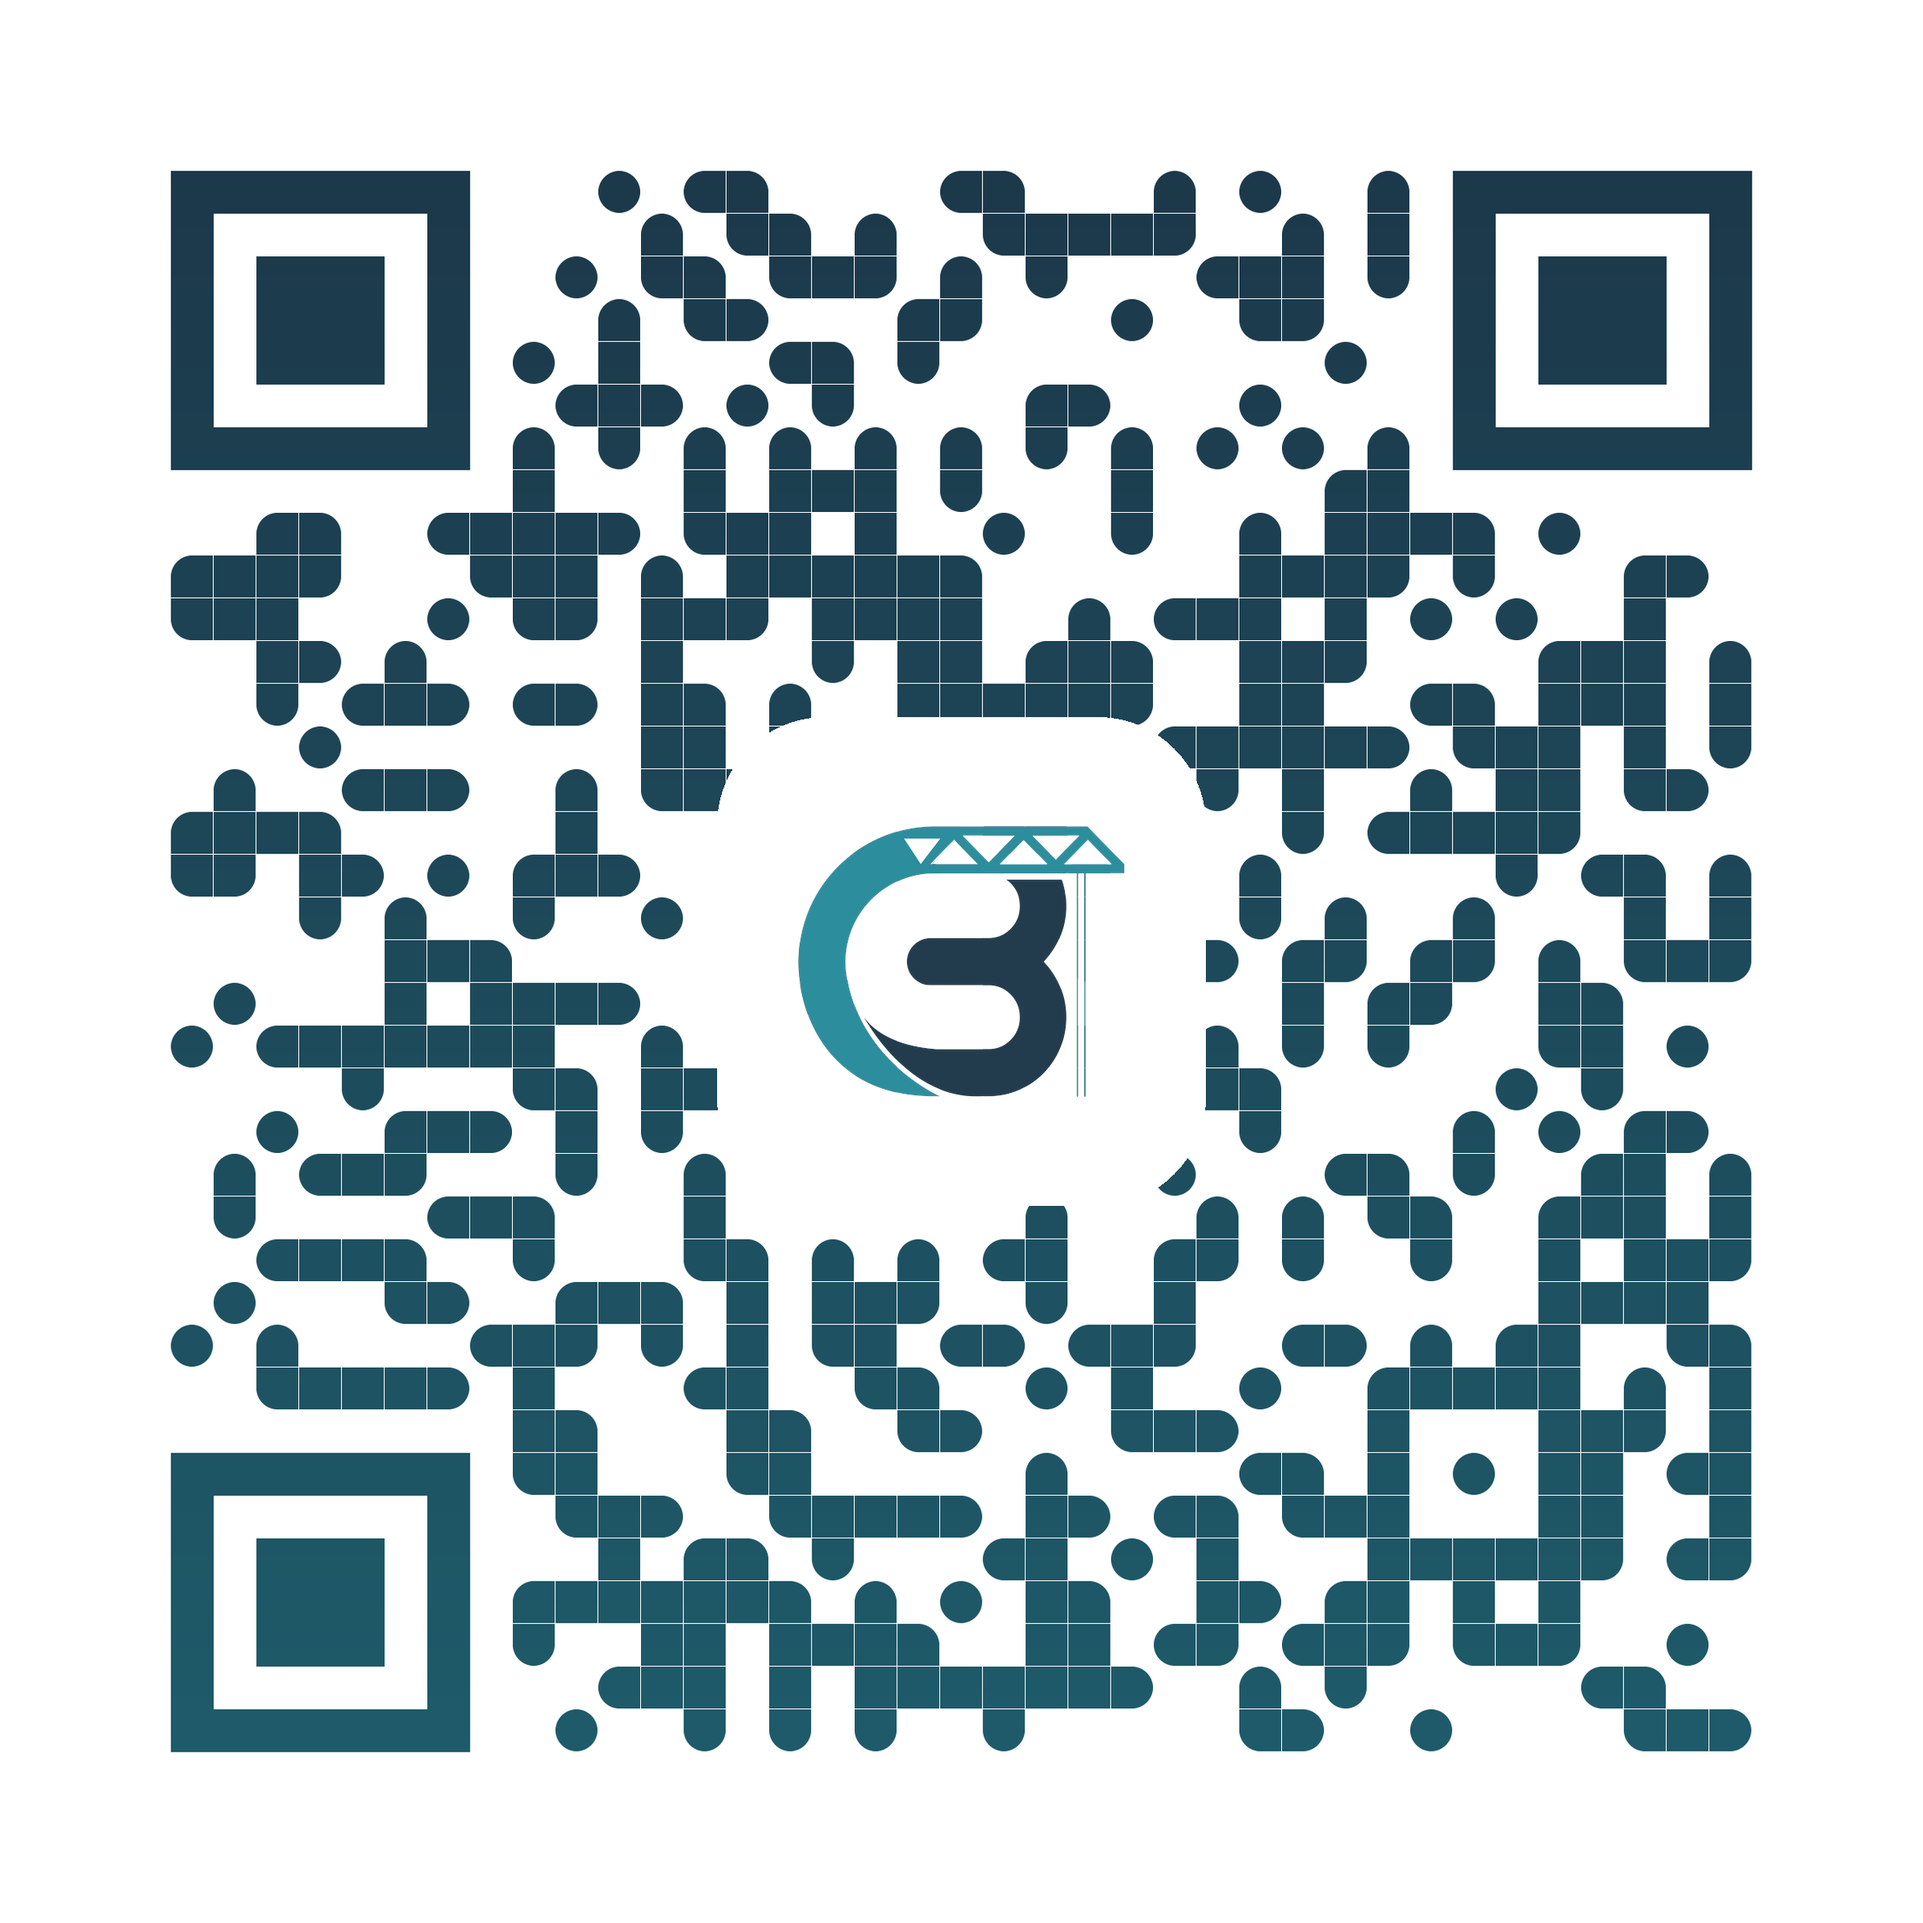
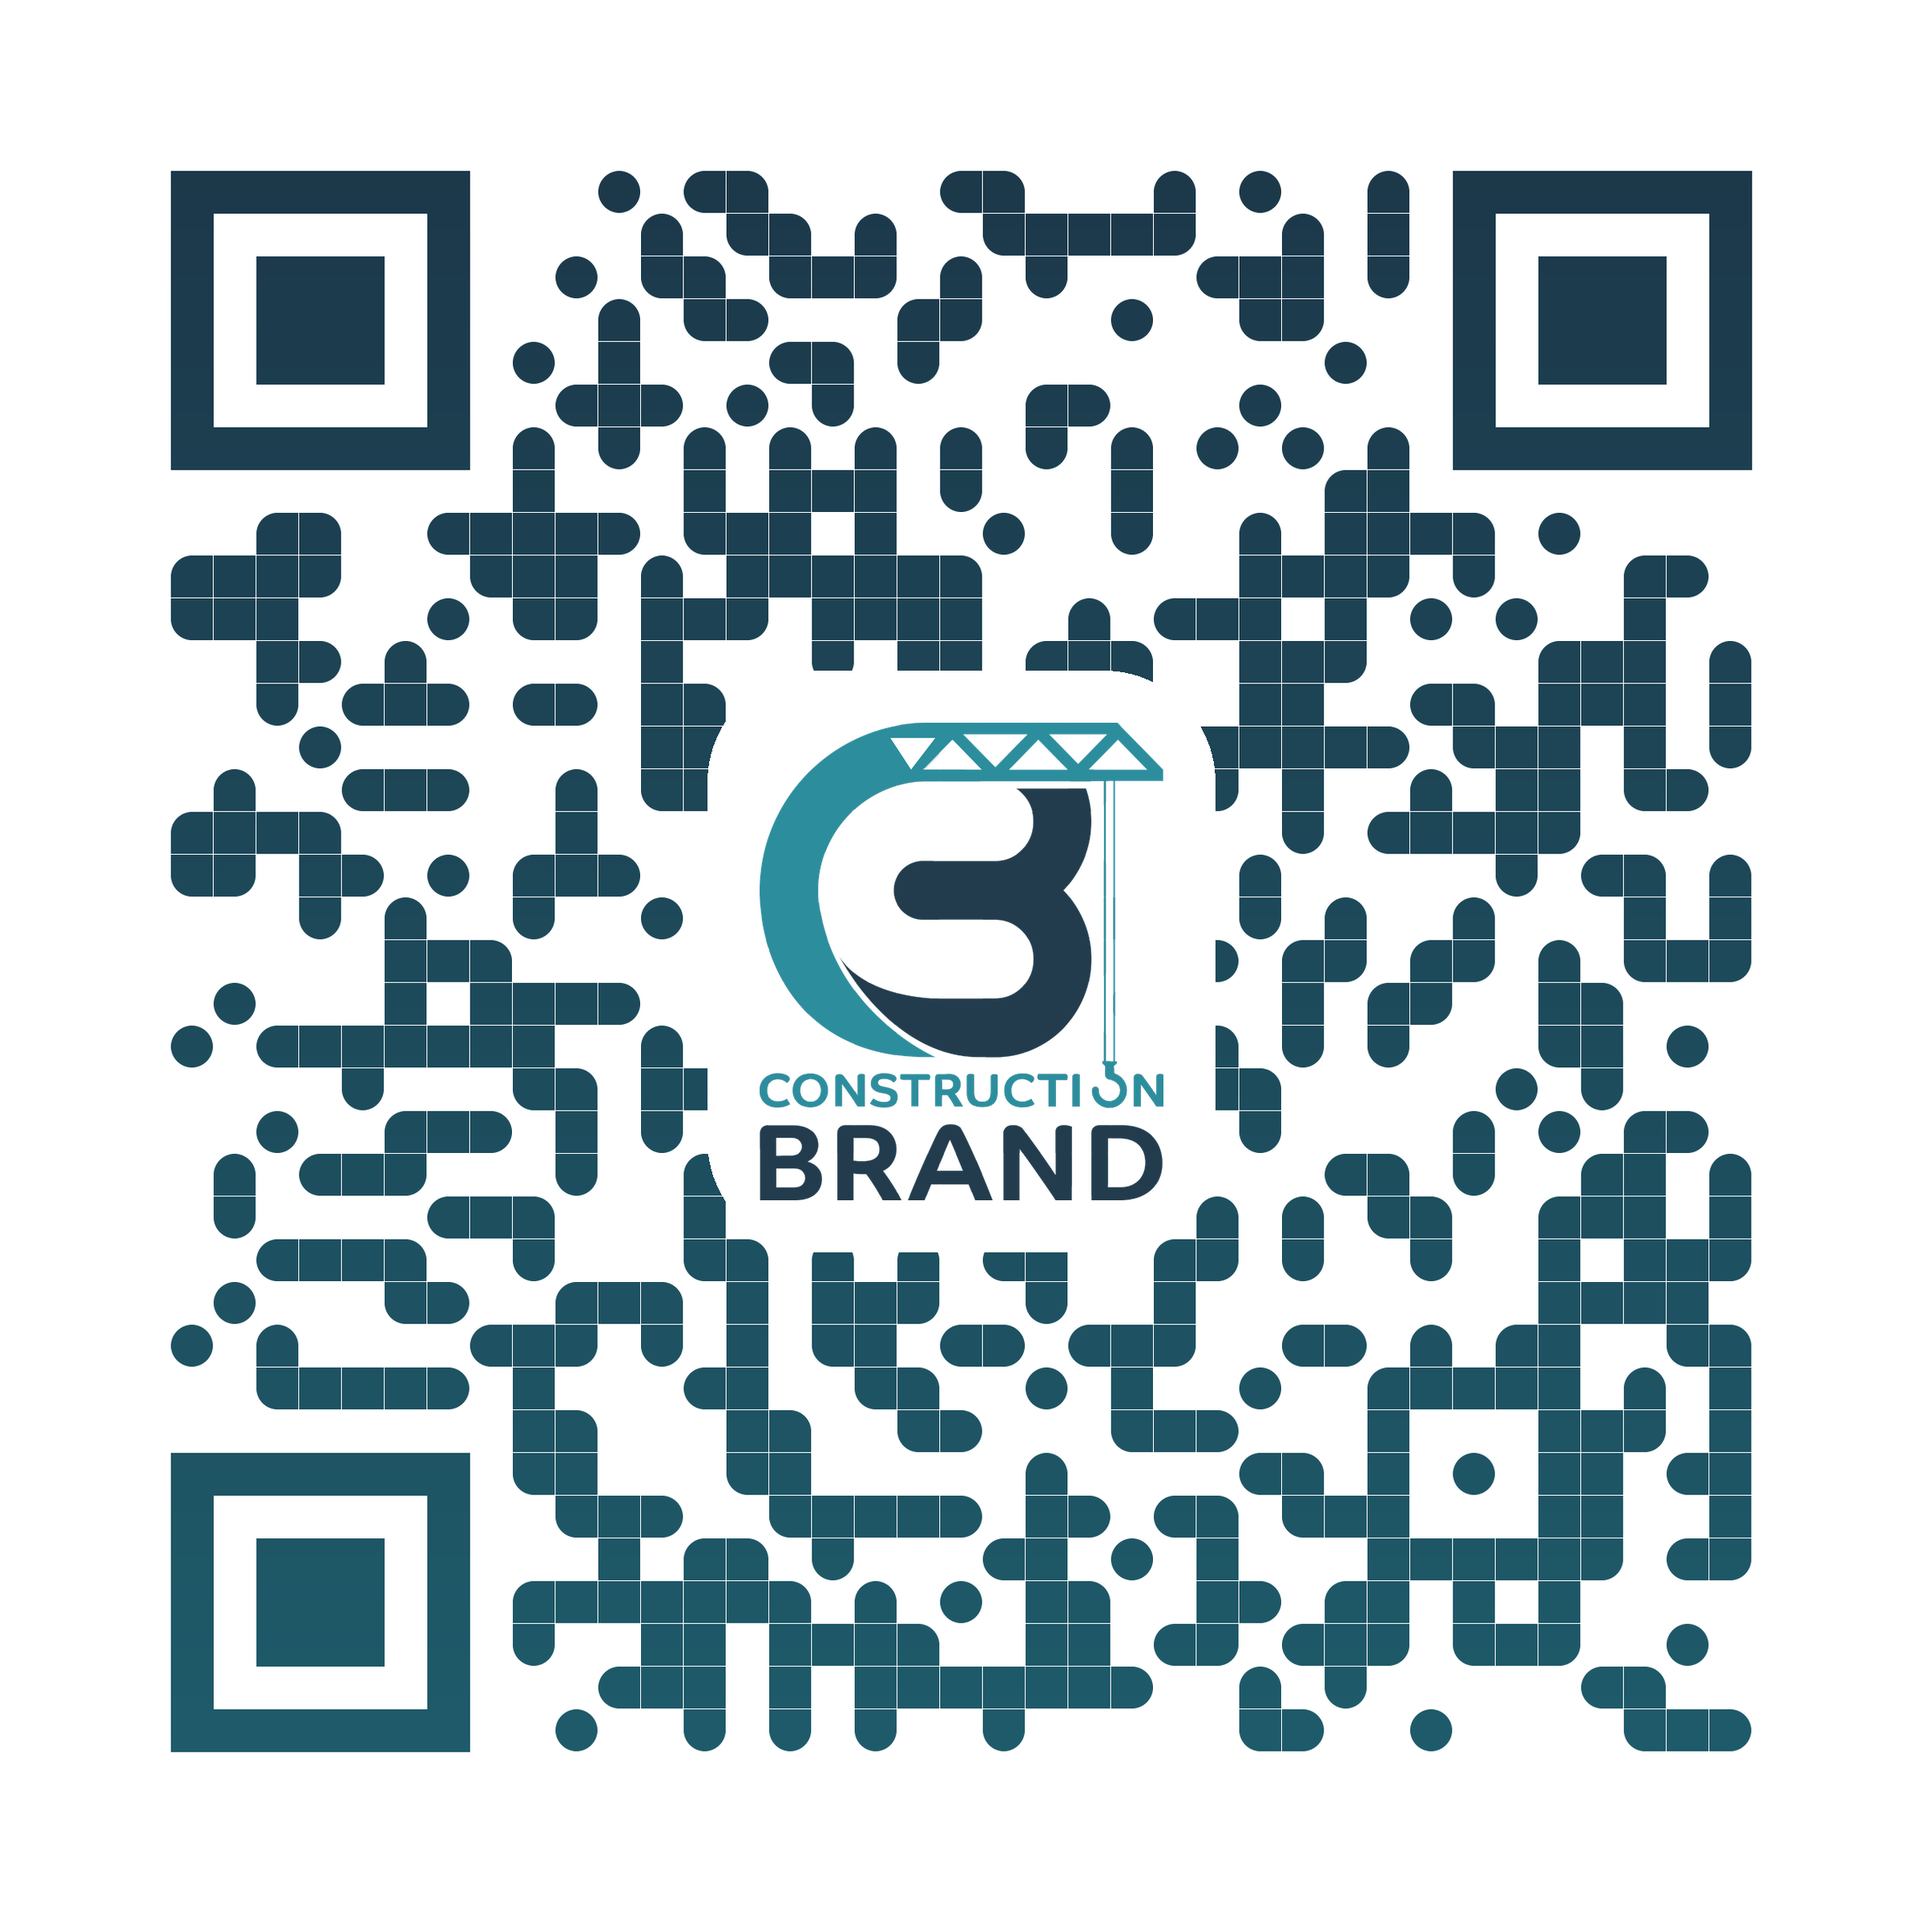
QR: full lockup in the centre, wordmark on the frame, bigger ringed badges
- centre plate now carries the full lockup - the mark with CONSTRUCTION
  BRAND right under it - on a rounded white plate held near 8% of the code
- frame band 0.22 -> 0.26 of the code, corner badges 0.78 -> 0.84 of the
  band with the mark at 0.80 of the disc and a light-teal ring
- the wordmark, cropped from the official artwork and recoloured white /
  light teal, runs along the bottom band (prepare_logo.py now derives
  assets/img/wordmark.png and wordmark-light.png)
- base render stays 2400 px: 3000 introduced a 25%-scale decode miss
- scan check is now multi-scale: full size must decode and at most one of
  15/20/25/30/40/50% may miss. Plain and framed pass at every scale.

Changed region(s): [[0.3438, 0.3438, 0.6562, 0.6562], [0.625, 0.5312, 0.6562, 0.5625]]

diff --git a/tools/generate_qr.py b/tools/generate_qr.py
@@ -49,6 +49,7 @@ ROOT = os.path.dirname(os.path.dirname(os.path.abspath(__file__)))
 OUT = os.path.join(ROOT, "qr")
 LOGO_PNG = os.path.join(ROOT, "assets", "img", "logo.png")          # mark only
 LOGO_FULL = os.path.join(ROOT, "assets", "img", "logo-full.png")    # with wordmark
+WORDMARK_LIGHT = os.path.join(ROOT, "assets", "img", "wordmark-light.png")  # for navy
 
 NAVY = (28, 53, 71)
 NAVY_DEEP = (14, 32, 42)
@@ -148,13 +149,18 @@ def load_mark(size):
 
 def badge(diameter):
     """The mark on a white disc - exactly how the brand uses it on Instagram,
-    and the only way a navy-and-teal logo stays legible on a navy frame."""
+    and the only way a navy-and-teal logo stays legible on a navy frame. A
+    thin light-teal ring lifts the disc off the navy so it reads as a badge
+    even at table-tent size."""
     d4 = diameter * SS
     disc = Image.new("RGBA", (d4, d4), (0, 0, 0, 0))
-    ImageDraw.Draw(disc).ellipse([0, 0, d4 - 1, d4 - 1], fill=WHITE)
+    dd = ImageDraw.Draw(disc)
+    ring = max(2, int(d4 * 0.035))
+    dd.ellipse([0, 0, d4 - 1, d4 - 1], fill=(124, 200, 214, 255))          # ring
+    dd.ellipse([ring, ring, d4 - 1 - ring, d4 - 1 - ring], fill=WHITE + (255,))
     disc = disc.resize((diameter, diameter), Image.LANCZOS)
 
-    inner = int(diameter * 0.74)
+    inner = int(diameter * 0.80)
     mark = load_mark(inner)
     disc.paste(mark, ((diameter - inner) // 2, (diameter - inner) // 2), mark)
     return disc
@@ -189,12 +195,19 @@ def plain_png(qr, px):
 
 
 def with_centre_mark(qr_img):
-    """Error correction H tolerates ~30% loss, so a centred mark is safe."""
+    """The full lockup - the mark with CONSTRUCTION BRAND right under it - on
+    a rounded white plate in the middle of the code. Error correction H
+    tolerates ~30% loss; the plate is held near 8% of the code's area and
+    every output is decoded back at several scales before it is kept."""
     px = qr_img.width
-    side = int(px * 0.19)
-    mark = load_mark(side)
-
-    pad = int(side * 0.17)
+    if os.path.exists(LOGO_FULL):
+        mark = Image.open(LOGO_FULL).convert("RGBA")
+        mark.thumbnail((int(px * 0.21), int(px * 0.27)), Image.LANCZOS)   # portrait lockup
+        pad = int(mark.width * 0.13)
+    else:
+        side = int(px * 0.19)
+        mark = load_mark(side)
+        pad = int(side * 0.17)
     pw, ph = mark.width + pad * 2, mark.height + pad * 2
     # rounded plate, to sit with the rounded modules rather than fight them
     plate = Image.new("RGBA", (pw, ph), (0, 0, 0, 0))
@@ -228,7 +241,7 @@ def framed(qr_img, style="corners"):
     discs. Every mark sits OUTSIDE the QR and its quiet zone, so none of this
     can affect scanning."""
     q = qr_img.width
-    band = int(q * 0.22)                 # navy frame thickness
+    band = int(q * 0.26)                 # navy frame thickness - room for real badges
     S = q + band * 2
     R = int(S * 0.055)                   # card corner radius
 
@@ -254,7 +267,7 @@ def framed(qr_img, style="corners"):
     card.paste(qr_img.convert("RGBA"), (band, band))
 
     # -- the marks --
-    size = int(band * 0.78)
+    size = int(band * 0.84)
     disc = badge(size)
     off = (band - size) // 2
 
@@ -266,12 +279,18 @@ def framed(qr_img, style="corners"):
     else:
         spots = [(off, off), (S - size - off, off),
                  (off, S - size - off), (S - size - off, S - size - off)]
-        # truss runs between the corner discs, top and bottom
-        gap = int(band * 0.30)
+        gap = int(band * 0.28)
         x0, x1 = off + size + gap, S - off - size - gap
-        th = int(band * 0.17)
-        truss(d, x0, x1, band // 2, th, TEAL, 200)
-        truss(d, x0, x1, S - band // 2, th, TEAL, 200)
+        # truss between the top discs ...
+        truss(d, x0, x1, band // 2, int(band * 0.16), TEAL, 200)
+        # ... and the wordmark between the bottom ones, so the brand is read
+        # in words as well as seen in the mark
+        if os.path.exists(WORDMARK_LIGHT):
+            wm = Image.open(WORDMARK_LIGHT).convert("RGBA")
+            wm.thumbnail((x1 - x0, int(band * 0.66)), Image.LANCZOS)
+            card.paste(wm, ((S - wm.width) // 2, S - band // 2 - wm.height // 2), wm)
+        else:
+            truss(d, x0, x1, S - band // 2, int(band * 0.16), TEAL, 200)
 
     for xy in spots:
         card.paste(disc, xy, disc)
@@ -367,32 +386,34 @@ def verify(paths, url):
         return True
 
     det = cv2.QRCodeDetector()
+    scales = (0.15, 0.20, 0.25, 0.30, 0.40, 0.50)   # print-like sizes
     ok = True
-    print("\nScan check (decoded back from the generated image):")
+    print("\nScan check (decoded back from the generated image, at full size")
+    print("and at %s of it; full size must pass, and at most one small scale may miss):"
+          % ", ".join("%d%%" % int(s * 100) for s in scales))
     for p in paths:
         img = cv2.imread(p)
-        # also try a small print-like size, to catch codes that only work huge
-        results = []
-        for scale in (1.0, 0.25):
-            h, w = img.shape[:2]
-            s = img if scale == 1.0 else cv2.resize(
-                img, (int(w * scale), int(h * scale)), interpolation=cv2.INTER_AREA)
-            try:
-                data, _, _ = det.detectAndDecode(s)
-            except cv2.error:
-                data = ""
-            results.append(data)
+        h, w = img.shape[:2]
 
-        got = next((r for r in results if r), "")
+        def read(scale):
+            s = img if scale == 1.0 else cv2.resize(
+                img, (max(1, int(w * scale)), max(1, int(h * scale))), interpolation=cv2.INTER_AREA)
+            try:
+                return det.detectAndDecode(s)[0]
+            except cv2.error:
+                return ""
+
+        full = read(1.0)
+        small = [read(s) == url for s in scales]
+        pattern = "".join("o" if hit else "-" for hit in small)
         name = os.path.basename(p)
-        if got == url:
-            print("  OK    %-40s both sizes" % name if all(r == url for r in results)
-                  else "  OK    %-40s (small size needed a retry)" % name)
-        elif got:
-            print("  WRONG %-40s decoded: %s" % (name, got))
+        if full == url and small.count(False) <= 1:
+            print("  OK    %-40s full:yes  small:%s" % (name, pattern))
+        elif full and full != url:
+            print("  WRONG %-40s decoded: %s" % (name, full))
             ok = False
         else:
-            print("  FAIL  %-40s could not be decoded" % name)
+            print("  FAIL  %-40s full:%s  small:%s" % (name, "yes" if full == url else "no", pattern))
             ok = False
     return ok
 

diff --git a/tools/prepare_logo.py b/tools/prepare_logo.py
@@ -91,21 +91,52 @@ def pad_square(img, margin=0.06):
     return canvas
 
 
-def split_mark(lockup):
-    """Cut the mark off the top of the lockup. Scan downward for the first row
-    where almost nothing is drawn - that is the hoist cable alone, just below
-    the body of the C and B."""
+def find_cut(lockup):
+    """Row where the mark ends. Scan downward for the first row where almost
+    nothing is drawn - that is the hoist cable alone, just below the body of
+    the C and B. None if the artwork has no such row."""
     a = np.asarray(lockup)[..., 3]
     h, w = a.shape
     occ = (a > 8).sum(axis=1)                 # opaque pixels per row
     start, end = int(h * 0.40), int(h * 0.80)
     thin = occ[start:end] < w * 0.02
     if not thin.any():
+        return None
+    return start + int(np.argmax(thin))
+
+
+def trimmed(img):
+    x0, y0, x1, y1 = bbox_of(img)
+    return img.crop((x0, y0, x1, y1))
+
+
+def split_mark(lockup):
+    cut = find_cut(lockup)
+    if cut is None:
         return lockup                          # unknown artwork: use as is
-    cut = start + int(np.argmax(thin))         # first cable-only row
-    mark = lockup.crop((0, 0, w, cut))
-    x0, y0, x1, y1 = bbox_of(mark)
-    return mark.crop((x0, y0, x1, y1))
+    return trimmed(lockup.crop((0, 0, lockup.width, cut)))
+
+
+def split_wordmark(lockup):
+    """Everything below the mark: CONSTRUCTION (with the hook as its O) and
+    BRAND. None if the artwork could not be split."""
+    cut = find_cut(lockup)
+    if cut is None:
+        return None
+    return trimmed(lockup.crop((0, cut, lockup.width, lockup.height)))
+
+
+def recolor_light(img):
+    """Navy -> white and teal -> light teal, so the wordmark reads on the navy
+    QR frame. Each pixel goes to whichever brand colour it is nearer to; the
+    alpha channel (and so every anti-aliased edge) is kept as is."""
+    arr = np.asarray(img).astype(np.int16)
+    rgb, alpha = arr[..., :3], arr[..., 3].astype(np.uint8)
+    d_navy = np.abs(rgb - np.array(NAVY)).sum(axis=2)
+    d_teal = np.abs(rgb - np.array(TEAL)).sum(axis=2)
+    light_teal = np.array((124, 200, 214))
+    out = np.where((d_navy <= d_teal)[..., None], np.array(WHITE), light_teal).astype(np.uint8)
+    return Image.fromarray(np.dstack([out, alpha]), "RGBA")
 
 
 # --------------------------------------------------------------------------- #
@@ -179,21 +210,30 @@ def main():
     lockup = art.crop((x0, y0, x1, y1))
     mark = split_mark(lockup)
 
+    wordmark = split_wordmark(lockup)
+
     p_mark = os.path.join(IMG, "logo.png")
     p_full = os.path.join(IMG, "logo-full.png")
     p_icon = os.path.join(IMG, "icon-512.png")
     p_og = os.path.join(IMG, "og.png")
+    p_wm = os.path.join(IMG, "wordmark.png")
+    p_wml = os.path.join(IMG, "wordmark-light.png")
 
     pad_square(mark).save(p_mark, "PNG", optimize=True)
     lockup.save(p_full, "PNG", optimize=True)
     make_icon(mark).save(p_icon, "PNG", optimize=True)
     make_og(lockup).save(p_og, "PNG", optimize=True)
+    outputs = [p_mark, p_full, p_icon, p_og]
+    if wordmark is not None:
+        wordmark.save(p_wm, "PNG", optimize=True)
+        recolor_light(wordmark).save(p_wml, "PNG", optimize=True)
+        outputs += [p_wm, p_wml]
 
     print("source      : %s  (%dx%d)" % (os.path.relpath(args.src, ROOT), *art.size))
     print("lockup bbox : %dx%d" % lockup.size)
     print("mark crop   : %dx%d  (cut at %.0f%% of lockup height)"
           % (mark.size[0], mark.size[1], 100.0 * mark.size[1] / lockup.size[1]))
-    for p in (p_mark, p_full, p_icon, p_og):
+    for p in outputs:
         im = Image.open(p)
         print("wrote       : %-26s %dx%d" % (os.path.relpath(p, ROOT), *im.size))
 

diff --git a/README.md b/README.md
@@ -69,6 +69,8 @@ python tools/prepare_logo.py
 | `assets/img/logo-full.png` | the full lockup with the wordmark — table tent |
 | `assets/img/icon-512.png` | mark on a navy tile — add-to-home-screen icon |
 | `assets/img/og.png` | 1200×630 share card — what WhatsApp / Telegram show when the link is pasted |
+| `assets/img/wordmark.png` | CONSTRUCTION BRAND on its own (the hook stays as the O) |
+| `assets/img/wordmark-light.png` | the same recoloured white / light teal — runs along the bottom of the QR frame |
 
 The crane hook in the artwork doubles as the "O" of CONSTRUCTION, so the mark
 is cut where the body of the C/B ends and only the hoist cable continues.
